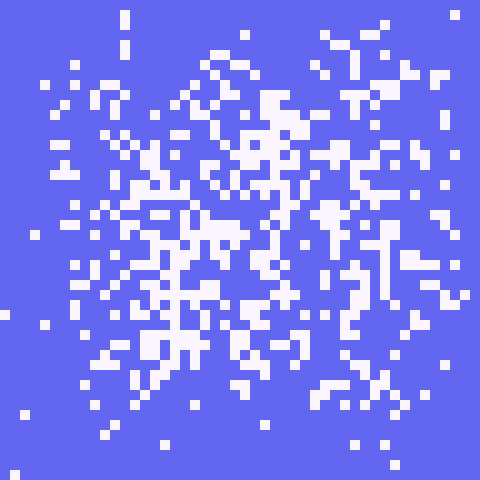
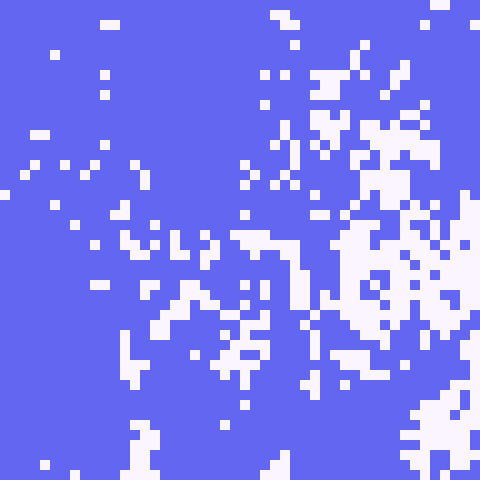
feat: Map-like shapes with rich internal texture (no solid blobs)
- Restore low-freq noise + domain warping for organic map silhouettes
- Add separate high-freq detail noise layer (3-5 octaves, scale /12-30)
  that carves holes and texture inside large shapes
- Blend 30-45% detail into base noise before thresholding
- Remove edge bias and white noise from previous iteration
- Regenerate all 5 sample PNGs

https://claude.ai/code/session_018LHjGY6KRuveAUgNLBsNLq

diff --git a/App.tsx b/App.tsx
@@ -74,11 +74,12 @@ function generatePattern(
   const seed = Math.floor(Math.random() * 999999);
   const rng = mulberry32(seed);
 
-  // High-frequency noise for fine-grained, scattered pixels (not blobs)
-  const baseScale = Math.max(width, height) / (10 + rng() * 16);
-  const octaves = 4 + Math.floor(rng() * 3);
+  // --- Layer 1: low-frequency "shape" noise (map-like silhouettes) ---
+  const baseScale = Math.max(width, height) / (2 + rng() * 5);
+  const octaves = 2 + Math.floor(rng() * 3);
+  const useWarp = rng() > 0.3;
+  const warpStrength = useWarp ? 0.5 + rng() * 3 : 0;
 
-  // Multi-octave fractal noise with strong high-frequency emphasis
   let noise: number[][] = Array.from({ length: height }, () =>
     new Array(width).fill(0)
   );
@@ -94,38 +95,79 @@ function generatePattern(
       }
     }
     totalAmplitude += amplitude;
-    amplitude *= 0.75; // slower falloff keeps high-frequency detail strong
+    amplitude *= 0.5;
   }
 
-  // Normalize to 0..1
   for (let y = 0; y < height; y++) {
     for (let x = 0; x < width; x++) {
       noise[y][x] /= totalAmplitude;
     }
   }
 
-  // Mix in per-pixel white noise to break up coherent blobs
-  const whiteNoiseWeight = 0.35 + rng() * 0.3; // 35-65% white noise
+  // Domain warping for organic, swirly shapes
+  if (useWarp) {
+    const warpNoiseX = valueNoise2D(width, height, baseScale * 0.7, rng);
+    const warpNoiseY = valueNoise2D(width, height, baseScale * 0.7, rng);
+    const warped: number[][] = Array.from({ length: height }, () =>
+      new Array(width).fill(0)
+    );
+    for (let y = 0; y < height; y++) {
+      for (let x = 0; x < width; x++) {
+        const wx = Math.min(
+          width - 1,
+          Math.max(
+            0,
+            Math.round(
+              x + (warpNoiseX[y][x] - 0.5) * warpStrength * baseScale
+            )
+          )
+        );
+        const wy = Math.min(
+          height - 1,
+          Math.max(
+            0,
+            Math.round(
+              y + (warpNoiseY[y][x] - 0.5) * warpStrength * baseScale
+            )
+          )
+        );
+        warped[y][x] = noise[wy][wx];
+      }
+    }
+    noise = warped;
+  }
+
+  // --- Layer 2: high-frequency "detail" noise (holes & texture) ---
+  const detailScale = Math.max(width, height) / (12 + rng() * 18);
+  const detailOctaves = 3 + Math.floor(rng() * 3);
+  let detail: number[][] = Array.from({ length: height }, () =>
+    new Array(width).fill(0)
+  );
+  let dAmp = 1;
+  let dTotal = 0;
+  for (let o = 0; o < detailOctaves; o++) {
+    const scale = detailScale / Math.pow(2, o);
+    const layer = valueNoise2D(width, height, scale, rng);
+    for (let y = 0; y < height; y++) {
+      for (let x = 0; x < width; x++) {
+        detail[y][x] += layer[y][x] * dAmp;
+      }
+    }
+    dTotal += dAmp;
+    dAmp *= 0.6;
+  }
   for (let y = 0; y < height; y++) {
     for (let x = 0; x < width; x++) {
-      noise[y][x] =
-        noise[y][x] * (1 - whiteNoiseWeight) + rng() * whiteNoiseWeight;
+      detail[y][x] /= dTotal;
     }
   }
 
-  // Edge bias: boost density near image borders
-  const edgeStrength = 0.18 + rng() * 0.14;
-  const halfW = width / 2;
-  const halfH = height / 2;
+  // --- Blend: shape provides silhouette, detail carves texture inside ---
+  const detailWeight = 0.3 + rng() * 0.15; // 30-45% detail influence
   for (let y = 0; y < height; y++) {
     for (let x = 0; x < width; x++) {
-      // Normalized distance from nearest edge: 0 at edge, 1 at center
-      const dx = Math.min(x, width - 1 - x) / halfW;
-      const dy = Math.min(y, height - 1 - y) / halfH;
-      const distFromEdge = Math.min(dx, dy);
-      // Smooth falloff curve: strongly boosts pixels within ~20% of the edge
-      const edgeFactor = Math.pow(1 - distFromEdge, 2.5);
-      noise[y][x] += edgeFactor * edgeStrength;
+      noise[y][x] =
+        noise[y][x] * (1 - detailWeight) + detail[y][x] * detailWeight;
     }
   }
 
